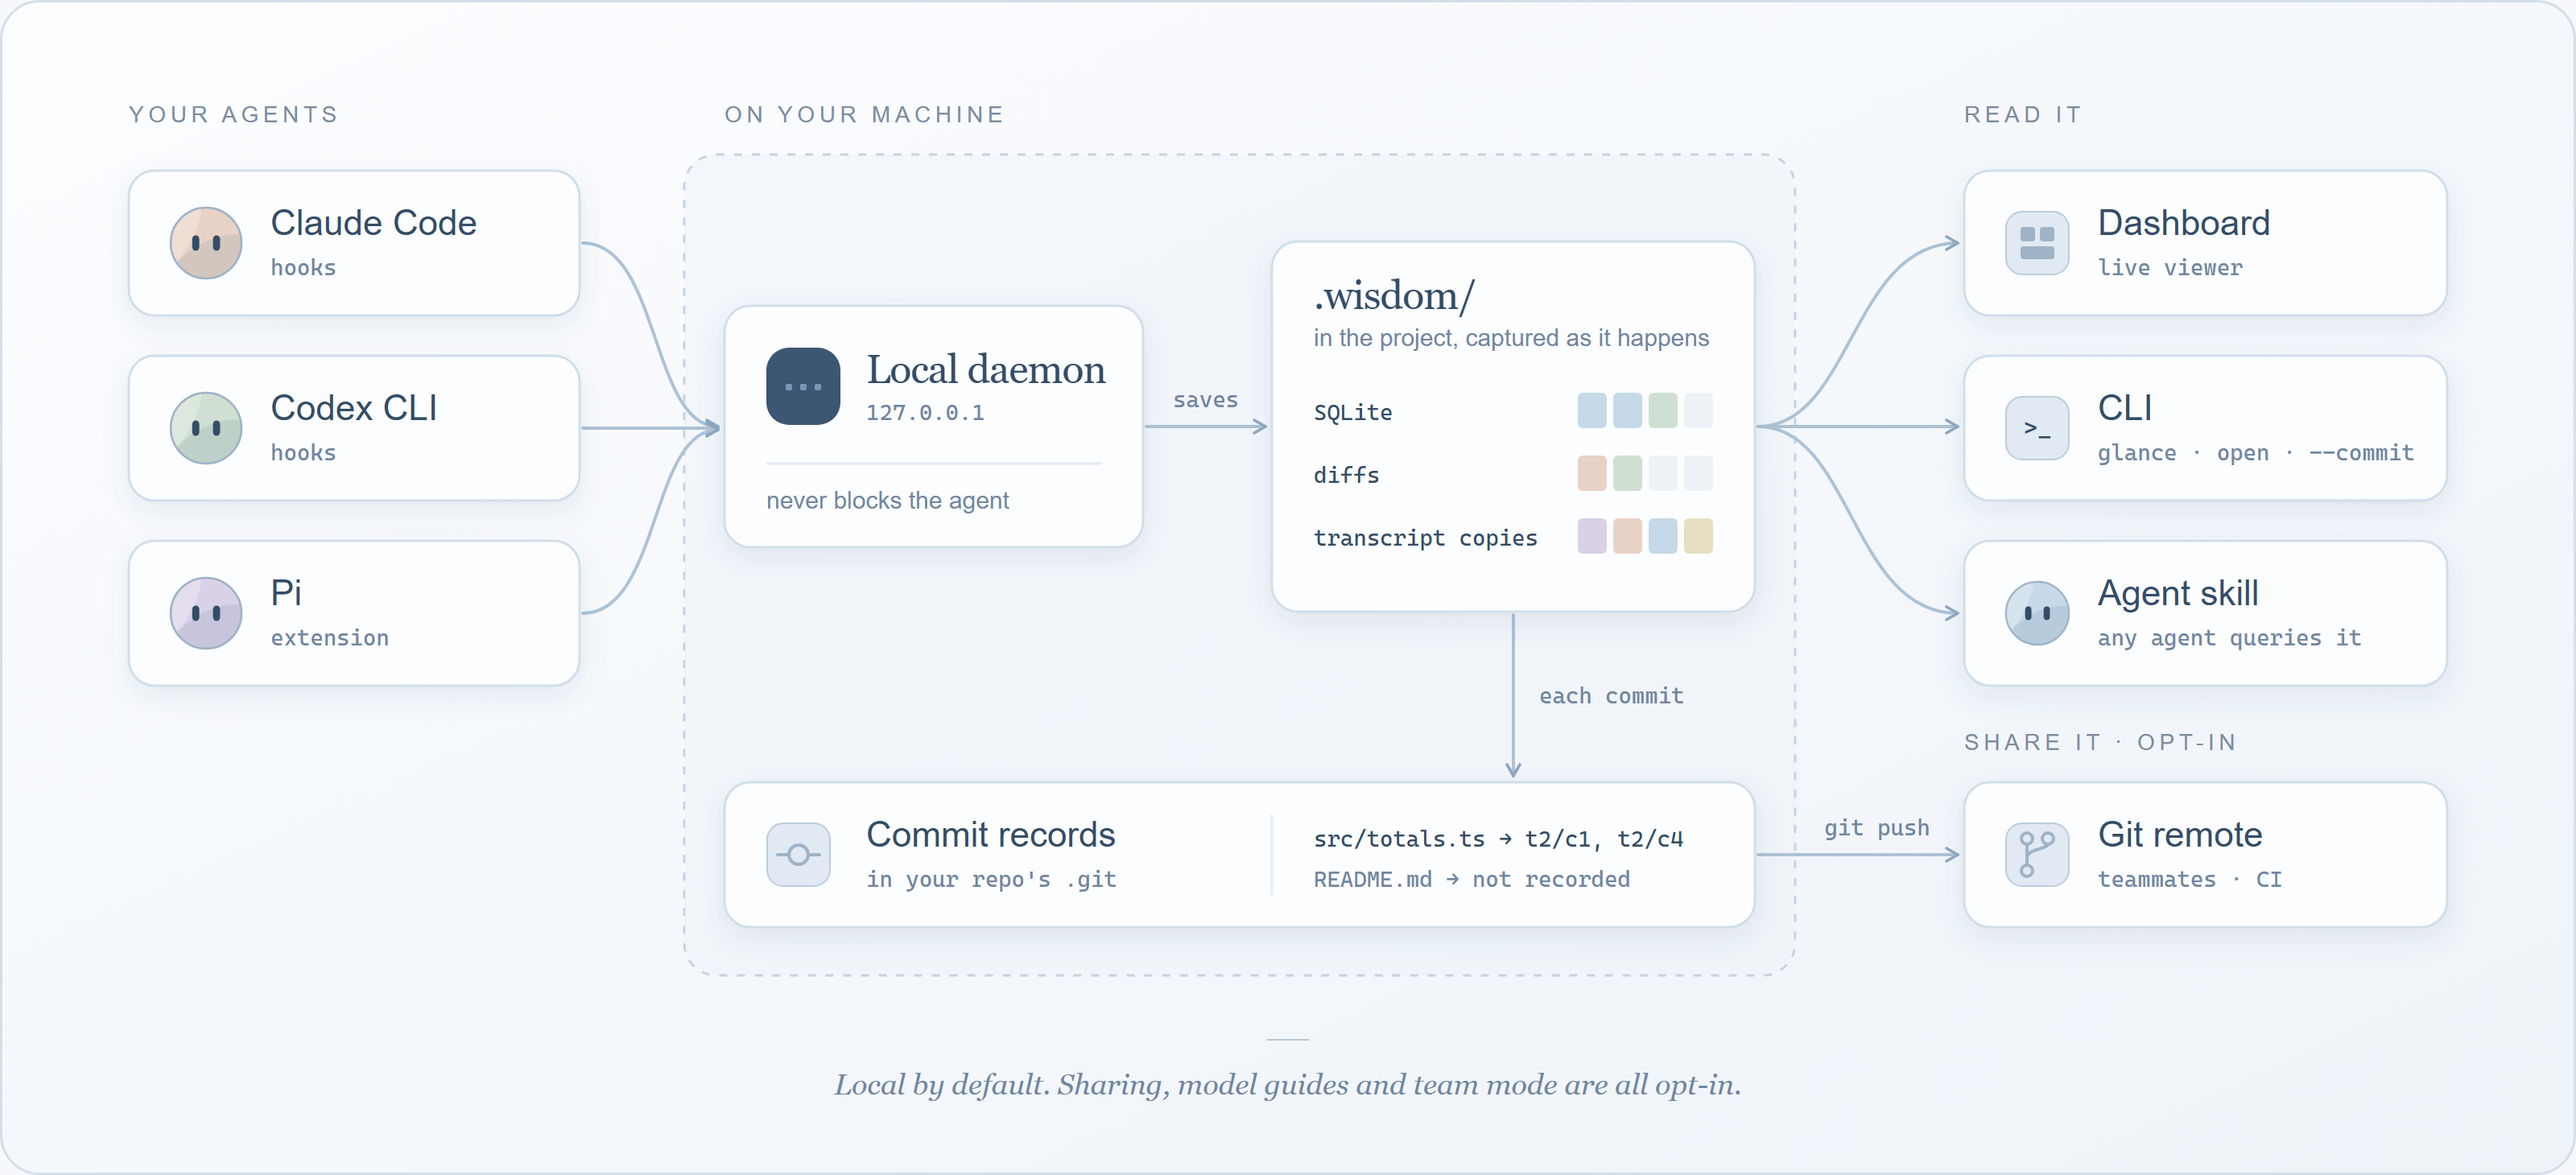
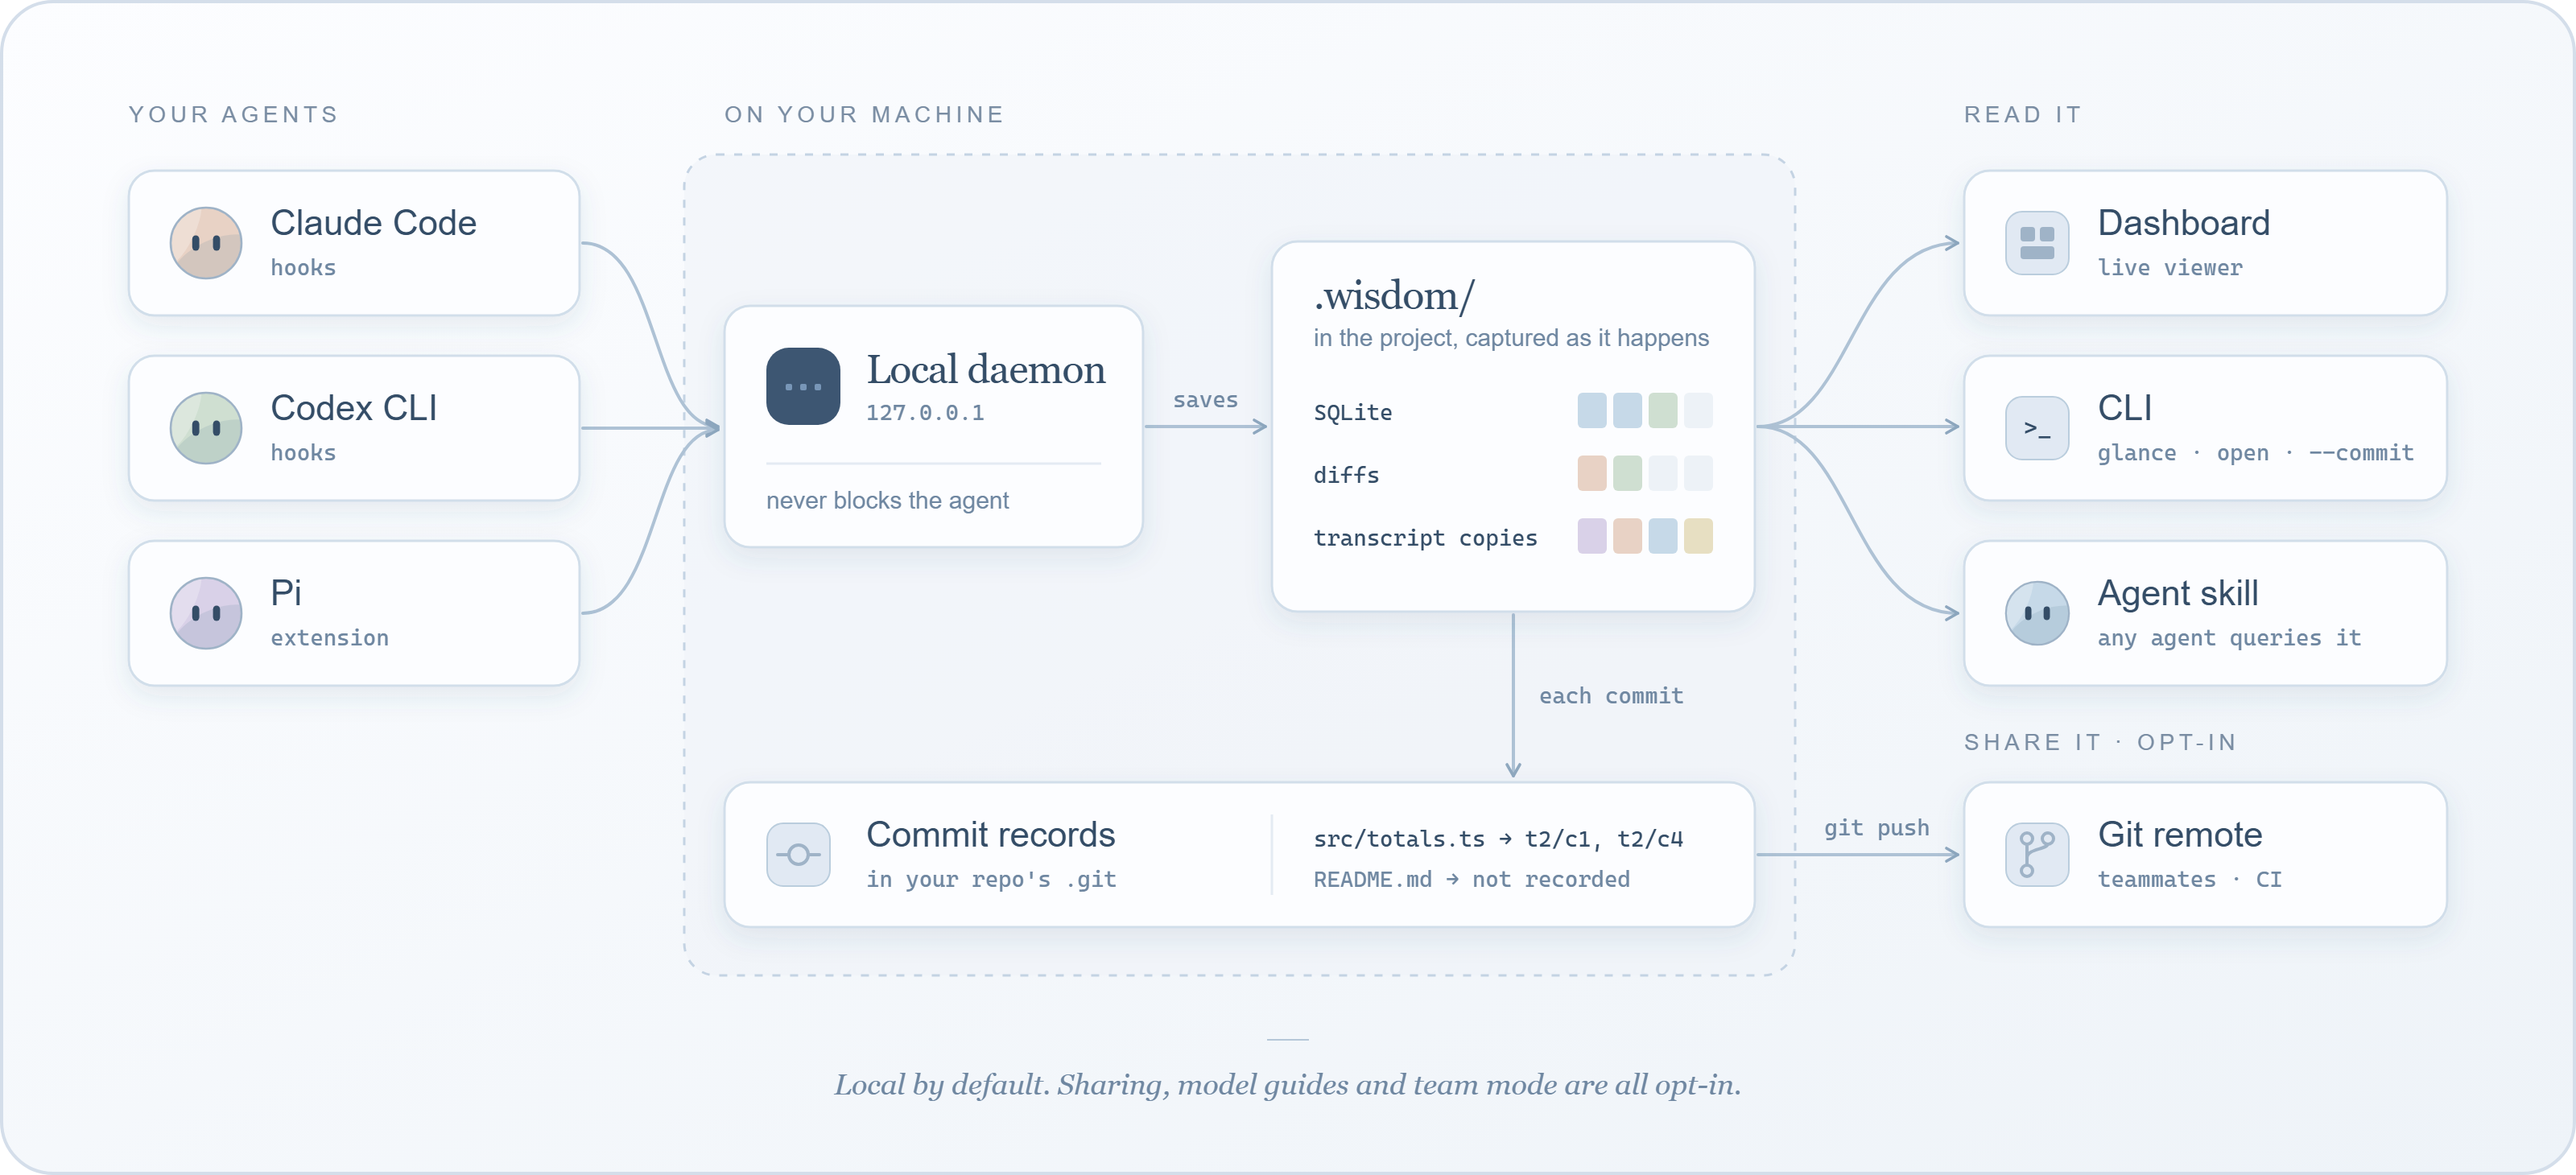
docs: align README image widths and frames

diff --git a/docs/assets/how-it-works.html b/docs/assets/how-it-works.html
@@ -4,12 +4,12 @@
 <meta charset="utf-8">
 <meta name="viewport" content="width=device-width, initial-scale=1">
 <title>How Wisdom works</title>
-<!-- Source of docs/assets/how-it-works.png. Theme from the landing page and product demo. -->
+<!-- Source of docs/assets/how-it-works.png. Render the SVG at 1600 x 730 with deviceScaleFactor 2 and omitBackground: true to preserve transparent corners. -->
 <style>
   :root { --paper:#f6f8fb; --ink:#344d67; --soft:#6f87a1; --muted:#7a8da3; --line:#d8e1ec;
           --surface:#fcfdff; --blue:#c6d9e8; --sage:#cfdfd1; --peach:#e8d2c5; --lilac:#d9d1e8; --sand:#e7dfc2; }
   * { box-sizing:border-box; }
-  html, body { margin:0; background:var(--paper); }
+  html, body { margin:0; background:transparent; }
   svg { display:block; width:100%; max-width:1600px; height:auto; margin:0 auto; font-family:Arial,Helvetica,sans-serif; }
   text { fill:var(--ink); }
   .eyebrow { font-size:14px; letter-spacing:2.8px; fill:var(--muted); }
@@ -51,7 +51,8 @@
     </g>
   </defs>
 
-  <rect x=".75" y=".75" width="1598.5" height="728.5" rx="24" fill="url(#paper)" stroke="#d4deea" stroke-width="1.5"/>
+  <!-- Shared README frame: 2% corner radius and 0.125% border, relative to the canvas width. -->
+  <rect x="1" y="1" width="1598" height="728" rx="32" fill="url(#paper)" stroke="#d4deea" stroke-width="2"/>
 
   <!-- Column labels -->
   <text x="80" y="76" class="eyebrow">YOUR AGENTS</text>

diff --git a/README.md b/README.md
@@ -1,7 +1,7 @@
 # Wisdom
 
 <p align="center">
-  <img src="docs/assets/wisdom-banner.svg" alt="Wisdom — The intent behind every change your coding agent makes, readable by you and by any agent" width="1200">
+  <img src="docs/assets/wisdom-banner.svg" alt="Wisdom — The intent behind every change your coding agent makes, readable by you and by any agent" width="900">
 </p>
 
 <p align="center">
@@ -131,7 +131,7 @@ Each commit with agent work can also get a short **guide**: what changed and why
 Team mode lets teammates read the sessions behind each other's commits. It's opt-in per repository, and everything travels through your own git remote as hidden refs, never on a branch and never to Wisdom.
 
 <p align="center">
-  <img src="docs/assets/team-mode.svg" alt="Maya works with Claude Code, Sam with Codex and Lee with Pi. Each pushes to the same git remote, origin, as usual. Beside the branches, under refs/wisdom/ and the repository's ID, it keeps a record for each commit and every teammate's sessions. Anyone on the team runs wisdom team fetch and reads any commit with wisdom glance --commit, and CI checks every pull request with wisdom check." width="700">
+  <img src="docs/assets/team-mode.svg" alt="Maya works with Claude Code, Sam with Codex and Lee with Pi. Each pushes to the same git remote, origin, as usual. Beside the branches, under refs/wisdom/ and the repository's ID, it keeps a record for each commit and every teammate's sessions. Anyone on the team runs wisdom team fetch and reads any commit with wisdom glance --commit, and CI checks every pull request with wisdom check." width="900">
 </p>
 
 ```sh
